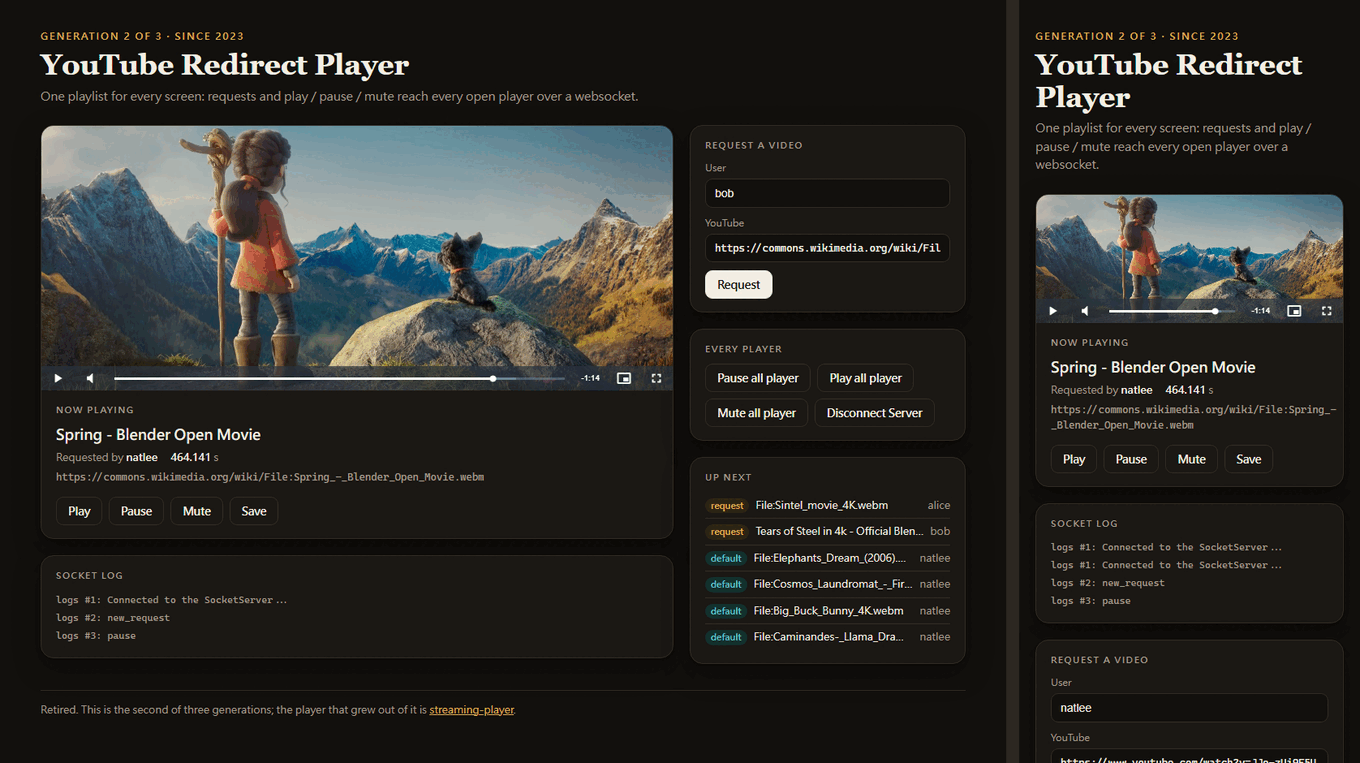
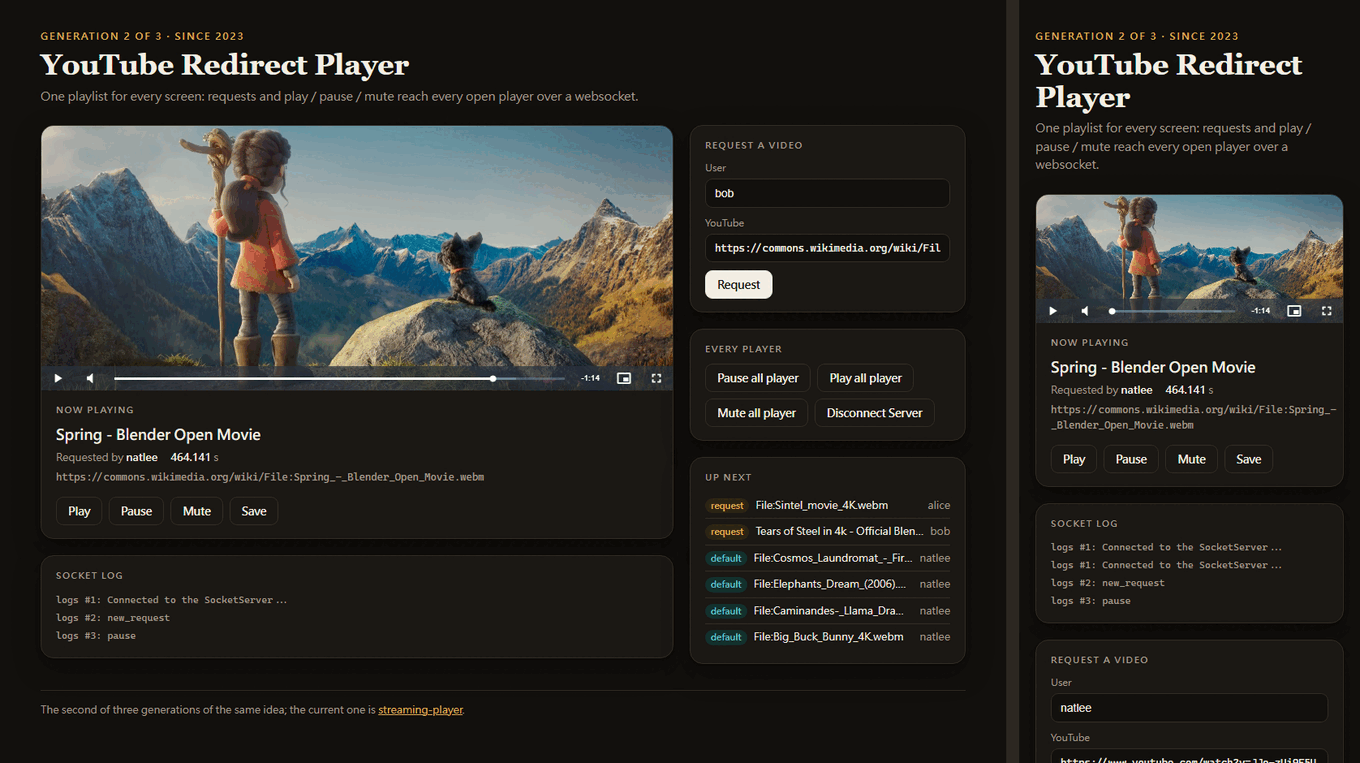
docs: introduce the project plainly instead of as a retired exhibit
The README opened with a "This project is retired" callout, a
status-retired badge and talk of a museum piece. Now the intro ends
with one plain sentence: this is the second of three generations of the
same idea, and the current one is streaming-player (linked). The
"successor" badge became "family", a license badge joins it now that
the repo is MIT, "Run the final version" became "Run it", and the
cover's alt text follows the new cover.

Everything else stays: the family tree and its table, the architecture
diagram, the playlists, the API table, settings and the honest "status
in 2026" notes. The screenshots are retaken so the page footer matches.

Changed region(s): [[0.5559, 0.7235, 0.6794, 0.844], [0.0309, 0.9043, 0.3706, 0.9646], [0.8338, 0.3919, 0.8956, 0.422]]

diff --git a/README.md b/README.md
@@ -1,28 +1,25 @@
 <p align="center">
   <picture>
     <source media="(prefers-color-scheme: dark)" srcset="https://raw.githubusercontent.com/NatLee/youtube-redirect-player/main/docs/images/hero-dark.png">
-    <img src="https://raw.githubusercontent.com/NatLee/youtube-redirect-player/main/docs/images/hero-light.png" width="960" alt="YouTube Redirect Player, exhibit 2 of 3 in the streaming-player lineage, stamped retired. Every open player talks to Flask and Socket.IO, which relays requests and play, pause and mute to everyone, uses yt-dlp to find each direct link and keeps three SQLite playlists: request (plays first), default (shuffled) and history (last 200). A timeline at the bottom runs from youtube-video-redirector (2021) to youtube-redirect-player (2023, you are here) to streaming-player (current).">
+    <img src="https://raw.githubusercontent.com/NatLee/youtube-redirect-player/main/docs/images/hero-light.png" width="960" alt="YouTube Redirect Player, Gen 2 of the streaming-player family. Every open player talks to Flask and Socket.IO, which relays requests and play, pause and mute to everyone, uses yt-dlp to find each direct link and keeps three SQLite playlists: request (plays first), default (shuffled) and history (last 200); the start command is python main.py. A timeline at the bottom runs from youtube-video-redirector (2021) to youtube-redirect-player (2023, this repo) to streaming-player (current).">
   </picture>
 </p>
 
 <p align="center">
   <a href="https://github.com/NatLee/youtube-redirect-player/actions/workflows/ci.yml"><img src="https://github.com/NatLee/youtube-redirect-player/actions/workflows/ci.yml/badge.svg" alt="CI"></a>
-  <img src="https://img.shields.io/badge/status-retired-8a5f12" alt="Status: retired">
-  <a href="https://github.com/NatLee/streaming-player"><img src="https://img.shields.io/badge/successor-streaming--player-0f6b62" alt="Successor: streaming-player"></a>
+  <a href="https://github.com/NatLee/streaming-player"><img src="https://img.shields.io/badge/family-streaming--player-0f6b62" alt="Family: streaming-player"></a>
   <img src="https://img.shields.io/badge/python-3.12-3776ab" alt="Python 3.12">
+  <a href="LICENSE"><img src="https://img.shields.io/github/license/NatLee/youtube-redirect-player" alt="License: MIT"></a>
 </p>
-
-> [!IMPORTANT]
-> **This project is retired.** It is the second of three generations of the same idea, and the one
-> that lives on is **[streaming-player](https://github.com/NatLee/streaming-player)**. Use that one.
-> This repo stays as a working museum piece: the final version below runs, has tests and CI, and
-> won't get new features.
 
 YouTube Redirect Player is a small Flask app that turns any number of browser tabs into one player.
 You request a video by its YouTube link, [yt-dlp](https://github.com/yt-dlp/yt-dlp) finds the
 video's direct file link, and the page plays that file. The playlist lives in SQLite, and
 [Socket.IO](https://socket.io/) (a websocket library) carries every request and every play, pause
 and mute to all open players. Open it on a laptop and a TV, and both follow along.
+
+It's the second of three generations of the same idea; the current one is
+[streaming-player](https://github.com/NatLee/streaming-player).
 
 ## The family tree
 
@@ -110,7 +107,7 @@ Everything is a `GET` with query parameters, so you can try it from the address 
 Routes that need a video answer 400 without one. A request without `user` is filed under
 `anonymous`, the same name the page uses.
 
-## Run the final version
+## Run it
 
 ### With Docker
 
@@ -170,7 +167,7 @@ same build, then starts the container and checks the page, the API and the Socke
 
 ## Status in 2026: what still works
 
-Checked on 2026-11-04 with the final version in Docker and two headless Edge windows:
+Checked on 2026-11-04 with this version in Docker and two headless Edge windows:
 
 - **The player part works.** Requests, the three playlists, the queue order, the history limit, and
   play, pause and mute across windows all behave as described above. The socket runs over a real
@@ -194,10 +191,10 @@ rebuild.
 <p align="center">
   <picture>
     <source media="(prefers-color-scheme: dark)" srcset="https://raw.githubusercontent.com/NatLee/youtube-redirect-player/main/docs/images/screenshot-dark.png">
-    <img src="https://raw.githubusercontent.com/NatLee/youtube-redirect-player/main/docs/images/screenshot-light.png" width="960" alt="The final version in two windows, a desktop one and a phone-sized one. Both show Spring - Blender Open Movie requested by natlee, paused on the same frame. The desktop window shows bob's request, the Every player buttons and an Up next list with two requests ahead of four saved videos. Both socket logs list the same new_request and pause messages.">
+    <img src="https://raw.githubusercontent.com/NatLee/youtube-redirect-player/main/docs/images/screenshot-light.png" width="960" alt="Today's version in two windows, a desktop one and a phone-sized one. Both show Spring - Blender Open Movie requested by natlee, paused on the same frame. The desktop window shows bob's request, the Every player buttons and an Up next list with two requests ahead of four saved videos. Both socket logs list the same new_request and pause messages.">
   </picture>
 </p>
-<p align="center"><sub>The final version in Docker, in two windows at once: bob's request and "Pause all player" from the big one reached the small one too.<br>The queue is made of Blender's open movies on Wikimedia Commons, because YouTube's own links no longer play in a browser (see above).<br>Spring © Blender Foundation, <a href="https://creativecommons.org/licenses/by/4.0/">CC BY 4.0</a>.</sub></p>
+<p align="center"><sub>Today's version in Docker, in two windows at once: bob's request and "Pause all player" from the big one reached the small one too.<br>The queue is made of Blender's open movies on Wikimedia Commons, because YouTube's own links no longer play in a browser (see above).<br>Spring © Blender Foundation, <a href="https://creativecommons.org/licenses/by/4.0/">CC BY 4.0</a>.</sub></p>
 
 <p align="center">
   <img src="https://user-images.githubusercontent.com/10178964/214097192-32ef6390-4481-4301-8743-98571192449f.png" width="480" alt="The 2023 version: a Video.js player above plain text lines with the title, link, duration and user, then unstyled buttons and the socket log.">
